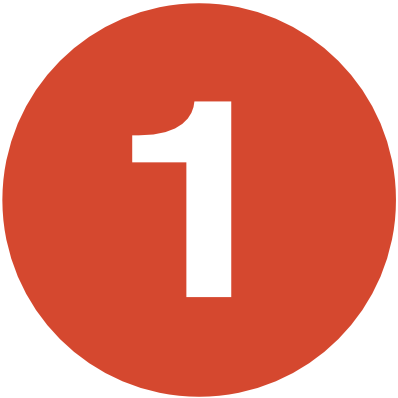
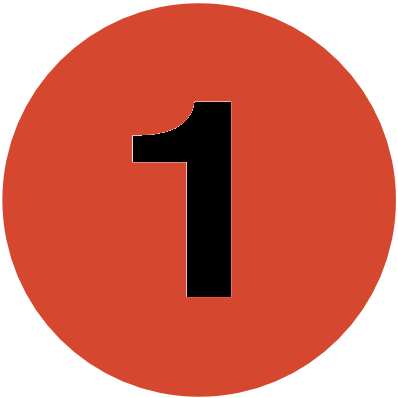
Made agents colored in viz

Changed region(s): [[0.3317, 0.2412, 0.603, 0.7538]]

diff --git a/include/CMAPF/CBS.hpp b/include/CMAPF/CBS.hpp
@@ -481,16 +481,23 @@ public:
 		int numberOfRows = image.rows;
 		int numberOfColumns = image.cols;
 
-		std::vector<cv::Mat4b> number_images(10);
+		std::vector<cv::Mat4b> number_images(4);
 		for(int i=0; i<number_images.size(); i++)
 		{
 			std::stringstream ss;
 			ss << "./src/CMAPF/data/viz/";
-			ss << (i+1);
+			if(i==1)
+				ss << 3;
+			else if (i==2)
+				ss << 2;
+			else if(i==3)
+				ss<< 1;
+			else 
+				ss << 4;
 			ss << ".png";
 			number_images[i] = imread(ss.str(), cv::IMREAD_UNCHANGED);
 			double scale = 0.037;
-			if(i>0)
+			if(i<3)
 				scale = 0.025;
 			cv::resize(number_images[i], number_images[i], cv::Size(), scale, scale);
 		}
@@ -545,6 +552,59 @@ public:
 			}
 		} 
 
+		std::vector< std::vector<std::pair<std::pair<int,int>, std::pair<int,int>>> > tasks;
+
+		std::vector<std::pair<std::pair<int,int>, std::pair<int,int>>> agent_tasks_4;
+		agent_tasks_4.push_back(std::make_pair(std::make_pair(5,2),std::make_pair(6,9)));
+		agent_tasks_4.push_back(std::make_pair(std::make_pair(6,10),std::make_pair(6,11)));
+		tasks.push_back(agent_tasks_4);
+
+		std::vector<std::pair<std::pair<int,int>, std::pair<int,int>>> agent_tasks_3;
+		agent_tasks_3.push_back(std::make_pair(std::make_pair(8,1),std::make_pair(6,7)));
+		agent_tasks_3.push_back(std::make_pair(std::make_pair(6,8),std::make_pair(6,12)));
+		tasks.push_back(agent_tasks_3);
+
+		std::vector<std::pair<std::pair<int,int>, std::pair<int,int>>> agent_tasks_2;
+		agent_tasks_2.push_back(std::make_pair(std::make_pair(5,1),std::make_pair(6,5)));
+		agent_tasks_2.push_back(std::make_pair(std::make_pair(6,6),std::make_pair(6,13)));
+		tasks.push_back(agent_tasks_2);
+
+		std::vector<std::pair<std::pair<int,int>, std::pair<int,int>>> agent_tasks_1;
+		agent_tasks_1.push_back(std::make_pair(std::make_pair(8,4),std::make_pair(6,3)));
+		agent_tasks_1.push_back(std::make_pair(std::make_pair(6,4),std::make_pair(6,14)));
+		tasks.push_back(agent_tasks_1);
+
+		for(int i=0; i<tasks.size(); i++)
+		{
+			cv::Scalar col;
+			if(i==0) 
+				col = cv::Scalar(255,0,0);
+			else if(i==1) 
+				col = cv::Scalar(0,255,255);
+			else if(i==2) 
+				col = cv::Scalar(255,255,255);
+			else
+				col = cv::Scalar(0,0,255);
+			for(int j=0; j<tasks[i].size(); j++)
+			{
+				{
+					cv::Point uPoint((int)(tasks[i][j].first.first*0.0625*numberOfColumns), (int)((1 - tasks[i][j].first.second*0.0625)*numberOfRows)); 
+					std::string text = std::to_string(4-i) + ((j==0)?"A":"B");
+					cv::circle(image, uPoint, 7,  col, -1);
+					cv::circle(image, uPoint, 8,  cv::Scalar(0,0,0), 1);
+					cv::putText(image, text, cv::Point(uPoint.x - 6,uPoint.y+3), cv::FONT_HERSHEY_PLAIN, 0.6, cvScalar(0,0,0), 1, 4);
+				}
+
+				{
+					cv::Point uPoint((int)(tasks[i][j].second.first*0.0625*numberOfColumns), (int)((1 - tasks[i][j].second.second*0.0625)*numberOfRows)); 
+					std::string text = std::to_string(4-i) + ((j==0)?"A":"B");
+					cv::circle(image, uPoint, 7, col, -1);
+					cv::circle(image, uPoint, 8,  cv::Scalar(0,0,0), 1);
+					cv::putText(image, text, cv::Point(uPoint.x - 6,uPoint.y+3), cv::FONT_HERSHEY_PLAIN, 0.6, cvScalar(0,0,0), 1, 4);
+				}
+			}
+		}
+
 		for (int i = 0; i < pathSize - 1; ++i)
 		{
 			Eigen::VectorXd u = path[i];
@@ -555,20 +615,20 @@ public:
 				cv::Point uPoint((int)(u[2*agent_id]*numberOfColumns), (int)((1 - u[2*agent_id+1])*numberOfRows));
 				cv::Point vPoint((int)(v[2*agent_id]*numberOfColumns), (int)((1 - v[2*agent_id+1])*numberOfRows));  
 		
-				if(i==0)
-				{
-					std::string text = "S" + std::to_string(agent_id+1);
-					cv::circle(image, uPoint, 7,  cv::Scalar(255,255,255), -1);
-					cv::circle(image, uPoint, 8,  cv::Scalar(0,0,0), 1);
-					cv::putText(image, text, cv::Point(uPoint.x - 6,uPoint.y+3), cv::FONT_HERSHEY_PLAIN, 0.6, cvScalar(0,0,0), 1, 4);
-				}
-				if(i==pathSize-2)
-				{
-					std::string text = "G" + std::to_string(agent_id+1);
-					cv::circle(image, vPoint, 7,  cv::Scalar(255,255,255), -1);
-					cv::circle(image, vPoint, 8,  cv::Scalar(0,0,0), 1);
-					cv::putText(image, text, cv::Point(vPoint.x - 6,vPoint.y+3), cv::FONT_HERSHEY_PLAIN, 0.6, cvScalar(0,0,0), 1, 4);
-				}
+				// if(i==0)
+				// {
+				// 	std::string text = "S" + std::to_string(agent_id+1);
+				// 	cv::circle(image, uPoint, 7,  cv::Scalar(255,255,255), -1);
+				// 	cv::circle(image, uPoint, 8,  cv::Scalar(0,0,0), 1);
+				// 	cv::putText(image, text, cv::Point(uPoint.x - 6,uPoint.y+3), cv::FONT_HERSHEY_PLAIN, 0.6, cvScalar(0,0,0), 1, 4);
+				// }
+				// if(i==pathSize-2)
+				// {
+				// 	std::string text = "G" + std::to_string(agent_id+1);
+				// 	cv::circle(image, vPoint, 7,  cv::Scalar(255,255,255), -1);
+				// 	cv::circle(image, vPoint, 8,  cv::Scalar(0,0,0), 1);
+				// 	cv::putText(image, text, cv::Point(vPoint.x - 6,vPoint.y+3), cv::FONT_HERSHEY_PLAIN, 0.6, cvScalar(0,0,0), 1, 4);
+				// }
 			}   
 		}
 
@@ -616,10 +676,10 @@ public:
 					double y_point = (1 - intermediate_config[1])*numberOfRows;
 					cv::Point _Point((int)x_point, (int)y_point);
 					// cv::circle(new_image, _Point, 6,  cv::Scalar(0,255,0), -1);
-					// cv::circle(new_image, _Point, 8,  cv::Scalar(0,255,0), 1);
+					// cv::circle(new_image, _Point, 8,  cv::Scalar(0,0,0), 2);
 					int x = x_point - number_images[agent_id].cols/2;
 					int y = y_point - number_images[agent_id].rows/2;
-					double alpha = 0.9; // alpha in [0,1]
+					double alpha = 1.0; // alpha in [0,1]
 
 					cv::Mat3b roi = new_image(cv::Rect(x, y, number_images[agent_id].cols, number_images[agent_id].rows));
 
@@ -664,8 +724,9 @@ public:
 					// cv::circle(new_image, _Point, 8,  cv::Scalar(0,255,0), 1);
 					int x = x_point - number_images[agent_id].cols/2;
 					int y = y_point - number_images[agent_id].rows/2;
-					double alpha = 0.9; // alpha in [0,1]
+					double alpha = 1.0; // alpha in [0,1]
 
+					// cv::circle(new_image, _Point, 8,  cv::Scalar(0,0,0), 2);
 					cv::Mat3b roi = new_image(cv::Rect(x, y, number_images[agent_id].cols, number_images[agent_id].rows));
 
 					for (int r = 0; r < roi.rows; ++r)

diff --git a/examples/examplePCSolver.cpp b/examples/examplePCSolver.cpp
@@ -71,13 +71,13 @@ int main(int argc, char *argv[])
 	name[1] = meta_data (std::make_pair(eps*6, eps*9), std::make_pair(eps*6, eps*10), std::vector <int> (1, 0), 8, 9, 0);
 	name[2] = meta_data (std::make_pair(eps*6, eps*10), std::make_pair(eps*6, eps*11), std::vector <int> (1, 0), 9, 10, 6);
 
-	name[3] = meta_data (std::make_pair(eps*5, eps*1), std::make_pair(eps*6, eps*7), std::vector <int> (1, 1), 0, 7, 0);
-	name[4] = meta_data (std::make_pair(eps*6, eps*7), std::make_pair(eps*6, eps*8), std::vector <int> (1, 1), 7, 8, 0);
-	name[5] = meta_data (std::make_pair(eps*6, eps*8), std::make_pair(eps*6, eps*12), std::vector <int> (1, 1), 8, 12, 4);
+	name[3] = meta_data (std::make_pair(eps*8, eps*1), std::make_pair(eps*6, eps*7), std::vector <int> (1, 1), 0, 8, 0);
+	name[4] = meta_data (std::make_pair(eps*6, eps*7), std::make_pair(eps*6, eps*8), std::vector <int> (1, 1), 8, 9, 0);
+	name[5] = meta_data (std::make_pair(eps*6, eps*8), std::make_pair(eps*6, eps*12), std::vector <int> (1, 1), 9, 13, 3);
 
-	name[6] = meta_data (std::make_pair(eps*8, eps*1), std::make_pair(eps*6, eps*5), std::vector <int> (1, 2), 0, 6, 0);
-	name[7] = meta_data (std::make_pair(eps*6, eps*5), std::make_pair(eps*6, eps*6), std::vector <int> (1, 2), 6, 7, 0);
-	name[8] = meta_data (std::make_pair(eps*6, eps*6), std::make_pair(eps*6, eps*13), std::vector <int> (1, 2), 7, 14, 2);
+	name[6] = meta_data (std::make_pair(eps*5, eps*1), std::make_pair(eps*6, eps*5), std::vector <int> (1, 2), 0, 5, 0);
+	name[7] = meta_data (std::make_pair(eps*6, eps*5), std::make_pair(eps*6, eps*6), std::vector <int> (1, 2), 5, 6, 0);
+	name[8] = meta_data (std::make_pair(eps*6, eps*6), std::make_pair(eps*6, eps*13), std::vector <int> (1, 2), 6, 13, 3);
 
 	name[9] = meta_data (std::make_pair(eps*8, eps*4), std::make_pair(eps*6, eps*3), std::vector <int> (1, 3), 0, 5, 0);
 	name[10] = meta_data (std::make_pair(eps*6, eps*3), std::make_pair(eps*6, eps*4), std::vector <int> (1, 3), 5, 6, 0);

diff --git a/include/CMAPF/PCSolver.hpp b/include/CMAPF/PCSolver.hpp
@@ -56,8 +56,8 @@ public:
 	{
 		mCount +=1;
 		std::cout << "PC Iteration: "<<mCount<<std::endl;
-		// if(mCount < 2519)
-			// return false;
+		if(mCount < 2800)
+			return false;
 
 		container c;
 		topological_sort(G, std::back_inserter(c));
